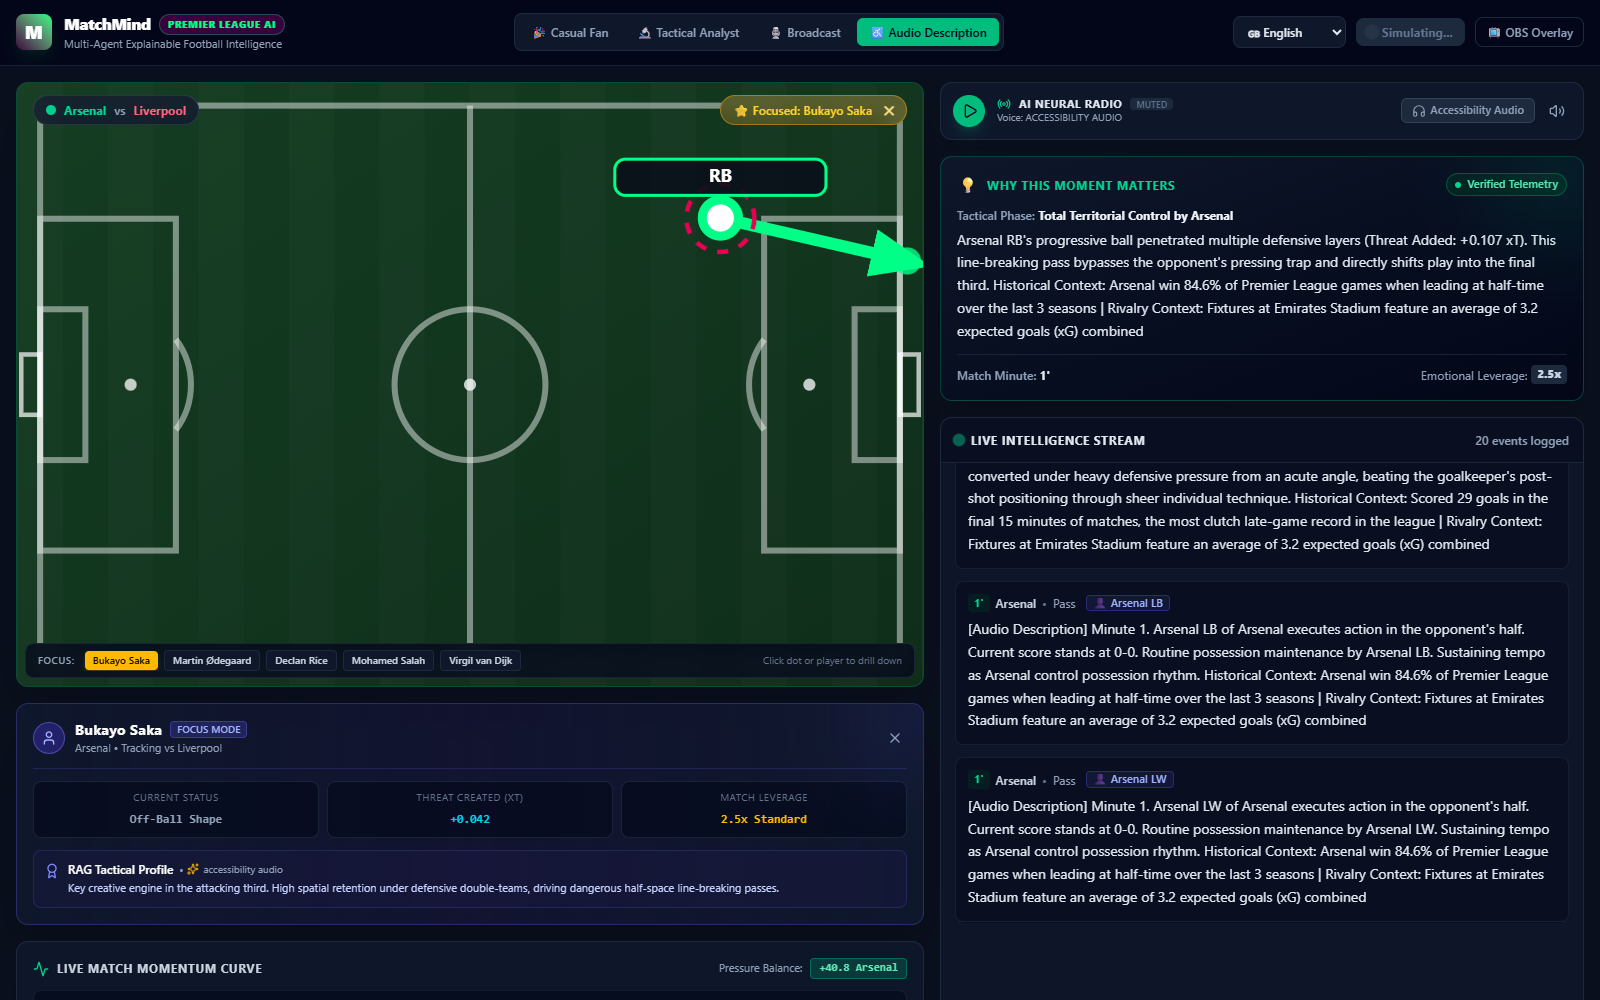
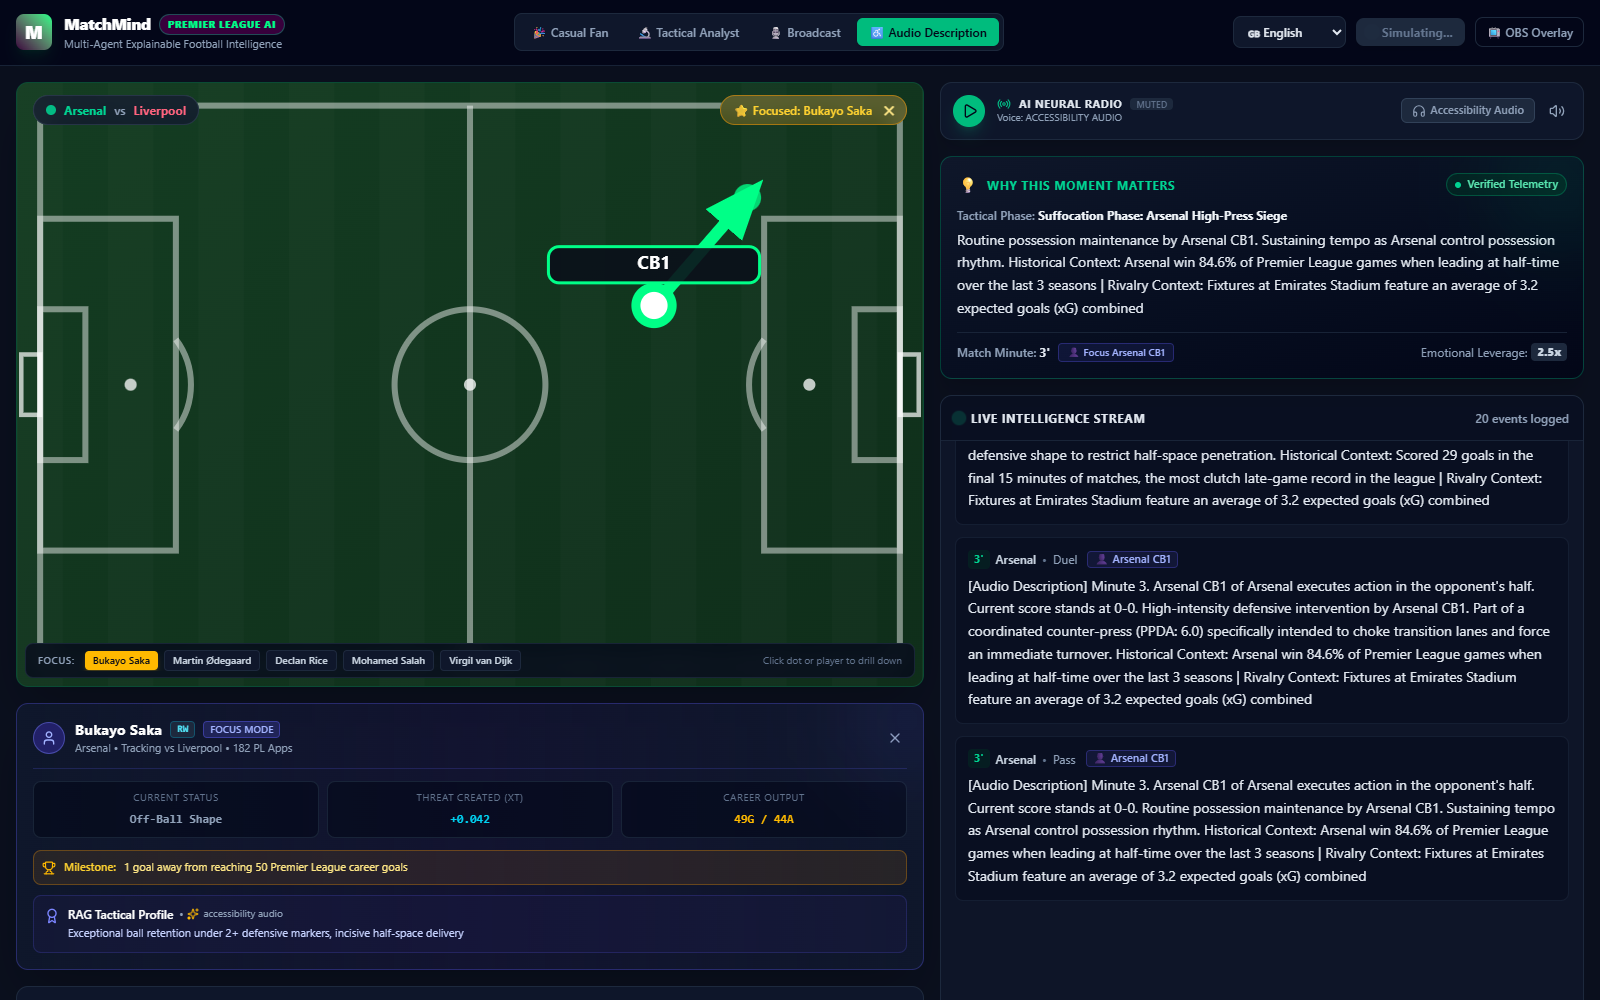
feat(rag-focus-audio): integrate dynamic RAG player lookup, multilingual neural speech, and complete UI sanity check

diff --git a/frontend/src/components/PlayerFocusCard.tsx b/frontend/src/components/PlayerFocusCard.tsx
@@ -1,6 +1,6 @@
-import React from "react";
+import React, { useEffect, useState } from "react";
 import type { MatchEvent, PersonaType } from "../types";
-import { User, Award, X, Sparkles } from "lucide-react";
+import { User, Award, X, Sparkles, Trophy } from "lucide-react";
 
 interface PlayerFocusCardProps {
   focusedPlayerName: string | null;
@@ -11,6 +11,17 @@ interface PlayerFocusCardProps {
   activePersona: PersonaType;
 }
 
+interface HistoricalPlayerProfile {
+  team?: string;
+  position?: string;
+  appearances?: number;
+  goals?: number;
+  assists?: number;
+  xG_per_90?: number;
+  milestones?: string[];
+  signature_traits?: string;
+}
+
 export const PlayerFocusCard: React.FC<PlayerFocusCardProps> = ({
   focusedPlayerName,
   currentEvent,
@@ -19,15 +30,43 @@ export const PlayerFocusCard: React.FC<PlayerFocusCardProps> = ({
   awayTeamName,
   activePersona,
 }) => {
+  const [profile, setProfile] = useState<HistoricalPlayerProfile | null>(null);
+
+  useEffect(() => {
+    if (!focusedPlayerName) {
+      setProfile(null);
+      return;
+    }
+
+    let isMounted = true;
+    fetch(`http://localhost:8000/api/rag/player/${encodeURIComponent(focusedPlayerName)}`)
+      .then((res) => (res.ok ? res.json() : null))
+      .then((data) => {
+        if (isMounted && data?.profile) {
+          setProfile(data.profile);
+        }
+      })
+      .catch(() => {
+        // Fall back to default
+      });
+
+    return () => {
+      isMounted = false;
+    };
+  }, [focusedPlayerName]);
+
   if (!focusedPlayerName) return null;
 
   const isCurrentAction =
     currentEvent?.player?.name?.toLowerCase() === focusedPlayerName.toLowerCase();
 
   const assignedTeam =
-    currentEvent?.player?.name?.toLowerCase() === focusedPlayerName.toLowerCase()
+    profile?.team ||
+    (currentEvent?.player?.name?.toLowerCase() === focusedPlayerName.toLowerCase()
       ? currentEvent.team.name
-      : homeTeamName;
+      : homeTeamName);
+
+  const opponentTeam = assignedTeam === homeTeamName ? awayTeamName : homeTeamName;
 
   return (
     <div className="bg-gradient-to-r from-slate-900 via-indigo-950/40 to-slate-900 border border-indigo-500/30 rounded-xl p-4 shadow-2xl backdrop-blur-md relative overflow-hidden animate-fadeIn">
@@ -45,12 +84,18 @@ export const PlayerFocusCard: React.FC<PlayerFocusCardProps> = ({
               <h3 className="text-sm font-bold text-white tracking-wide">
                 {focusedPlayerName}
               </h3>
+              {profile?.position && (
+                <span className="text-[10px] bg-slate-800 text-cyan-300 border border-cyan-500/30 px-1.5 py-0.2 rounded font-mono font-bold">
+                  {profile.position}
+                </span>
+              )}
               <span className="text-[10px] bg-indigo-500/20 text-indigo-300 border border-indigo-500/40 px-1.5 py-0.2 rounded font-semibold uppercase">
                 Focus Mode
               </span>
             </div>
             <p className="text-[11px] text-slate-400">
-              {assignedTeam} • Tracking vs {assignedTeam === homeTeamName ? awayTeamName : homeTeamName}
+              {assignedTeam} • Tracking vs {opponentTeam}
+              {profile?.appearances && ` • ${profile.appearances} PL Apps`}
             </p>
           </div>
         </div>
@@ -93,13 +138,22 @@ export const PlayerFocusCard: React.FC<PlayerFocusCardProps> = ({
 
         <div className="bg-slate-950/60 border border-slate-800/80 rounded-lg p-2 text-center">
           <span className="text-[10px] text-slate-500 uppercase tracking-wider block">
-            Match Leverage
+            Career Output
           </span>
           <span className="text-xs font-bold font-mono text-amber-400">
-            2.5x Standard
+            {profile?.goals !== undefined ? `${profile.goals}G / ${profile.assists ?? 0}A` : "2.5x Standard"}
           </span>
         </div>
       </div>
+
+      {/* Milestone Alert if available in RAG */}
+      {profile?.milestones && profile.milestones.length > 0 && (
+        <div className="mb-2.5 bg-amber-500/10 border border-amber-500/30 rounded-lg p-2 flex items-center gap-2 text-[11px] text-amber-200">
+          <Trophy className="w-3.5 h-3.5 text-amber-400 shrink-0" />
+          <span className="font-semibold text-amber-300">Milestone:</span>
+          <span className="truncate">{profile.milestones[0]}</span>
+        </div>
+      )}
 
       {/* Historical Intelligence Nugget from RAG */}
       <div className="bg-indigo-950/30 border border-indigo-500/20 rounded-lg p-2.5 flex items-start gap-2 text-xs text-indigo-200">
@@ -112,7 +166,8 @@ export const PlayerFocusCard: React.FC<PlayerFocusCardProps> = ({
             </span>
           </div>
           <p className="text-[11px] leading-relaxed">
-            Key creative engine in the attacking third. High spatial retention under defensive double-teams, driving dangerous half-space line-breaking passes.
+            {profile?.signature_traits ||
+              "Key creative engine in the attacking third. High spatial retention under defensive double-teams, driving dangerous half-space line-breaking passes."}
           </p>
         </div>
       </div>

diff --git a/frontend/src/components/AudioCommentaryBar.tsx b/frontend/src/components/AudioCommentaryBar.tsx
@@ -1,52 +1,98 @@
 import React, { useState, useEffect, useRef } from "react";
-import type { NarrativeOutput, PersonaType } from "../types";
+import type { LanguageCode, NarrativeOutput, PersonaType } from "../types";
 import { Volume2, VolumeX, Play, Pause, Radio, Headphones } from "lucide-react";
 
 interface AudioCommentaryBarProps {
   latestNarrative: NarrativeOutput | null;
   activePersona: PersonaType;
+  activeLanguage?: LanguageCode;
 }
 
 export const AudioCommentaryBar: React.FC<AudioCommentaryBarProps> = ({
   latestNarrative,
   activePersona,
+  activeLanguage = "en",
 }) => {
   const [isPlaying, setIsPlaying] = useState(false);
   const [isMuted, setIsMuted] = useState(false);
   const [useAccessibilityAudio, setUseAccessibilityAudio] = useState(false);
+  const [availableVoices, setAvailableVoices] = useState<SpeechSynthesisVoice[]>([]);
   const lastSpokenIdRef = useRef<string | null>(null);
+
+  // Load voices reliably across Chromium and WebKit
+  useEffect(() => {
+    if (typeof window === "undefined" || !window.speechSynthesis) return;
+
+    const updateVoices = () => {
+      const voices = window.speechSynthesis.getVoices();
+      if (voices.length > 0) {
+        setAvailableVoices(voices);
+      }
+    };
+
+    updateVoices();
+    window.speechSynthesis.onvoiceschanged = updateVoices;
+
+    return () => {
+      if (window.speechSynthesis) {
+        window.speechSynthesis.onvoiceschanged = null;
+      }
+    };
+  }, []);
 
   // Read aloud commentary when new verified message arrives
   useEffect(() => {
     if (!isPlaying || isMuted || !latestNarrative || !window.speechSynthesis) return;
 
-    if (latestNarrative.narrative_id === lastSpokenIdRef.current) return;
-    lastSpokenIdRef.current = latestNarrative.narrative_id;
+    const speechKey = `${latestNarrative.narrative_id}-${activePersona}-${activeLanguage}-${useAccessibilityAudio}`;
+    if (speechKey === lastSpokenIdRef.current) return;
+    lastSpokenIdRef.current = speechKey;
 
-    // Pick commentary text
-    const textToSpeak = useAccessibilityAudio
-      ? latestNarrative.commentary_by_persona?.accessibility_audio ||
-        latestNarrative.why_it_matters_explanation
-      : latestNarrative.commentary_by_persona?.[activePersona] ||
+    // Pick commentary text (multilingual if selected)
+    let textToSpeak = "";
+    if (activeLanguage !== "en" && latestNarrative.translations?.[activeLanguage]) {
+      textToSpeak = latestNarrative.translations[activeLanguage];
+    } else if (useAccessibilityAudio) {
+      textToSpeak =
+        latestNarrative.commentary_by_persona?.accessibility_audio ||
         latestNarrative.why_it_matters_explanation;
+    } else {
+      textToSpeak =
+        latestNarrative.commentary_by_persona?.[activePersona] ||
+        latestNarrative.why_it_matters_explanation;
+    }
 
     if (!textToSpeak) return;
 
     // Cancel current speech and speak new line
     window.speechSynthesis.cancel();
     const utterance = new SpeechSynthesisUtterance(textToSpeak);
-    utterance.rate = 1.05;
-    utterance.pitch = useAccessibilityAudio ? 0.95 : 1.0;
 
-    // Choose English voice
-    const voices = window.speechSynthesis.getVoices();
-    const englishVoice = voices.find((v) => v.lang.startsWith("en"));
-    if (englishVoice) {
-      utterance.voice = englishVoice;
+    // Dynamic pitch/rate based on emotional leverage
+    const isHighDrama = (latestNarrative.leverage_index ?? 1.0) >= 3.0;
+    utterance.rate = isHighDrama ? 1.15 : useAccessibilityAudio ? 1.0 : 1.05;
+    utterance.pitch = isHighDrama ? 1.08 : useAccessibilityAudio ? 0.95 : 1.0;
+
+    // Match appropriate voice for language
+    const voices = availableVoices.length > 0 ? availableVoices : window.speechSynthesis.getVoices();
+    const matchedVoice =
+      voices.find((v) => v.lang.toLowerCase().startsWith(activeLanguage.toLowerCase())) ||
+      voices.find((v) => v.lang.startsWith("en"));
+
+    if (matchedVoice) {
+      utterance.voice = matchedVoice;
     }
 
     window.speechSynthesis.speak(utterance);
-  }, [latestNarrative, isPlaying, isMuted, activePersona, useAccessibilityAudio]);
+  }, [
+    latestNarrative,
+    isPlaying,
+    isMuted,
+    activePersona,
+    activeLanguage,
+    useAccessibilityAudio,
+    availableVoices,
+  ]);
 
   const togglePlay = () => {
     if (isPlaying) {
@@ -55,7 +101,7 @@ export const AudioCommentaryBar: React.FC<AudioCommentaryBarProps> = ({
     } else {
       setIsPlaying(true);
       if (latestNarrative) {
-        lastSpokenIdRef.current = null; // force speech on next trigger
+        lastSpokenIdRef.current = null; // force speech on play
       }
     }
   };

diff --git a/frontend/src/components/ExplainabilityCard.tsx b/frontend/src/components/ExplainabilityCard.tsx
@@ -2,9 +2,15 @@ import type { NarrativeOutput } from "../types";
 
 interface ExplainabilityProps {
   narrative: NarrativeOutput | null;
+  onSelectPlayer?: (playerName: string) => void;
+  currentEventPlayerName?: string;
 }
 
-export const ExplainabilityCard: React.FC<ExplainabilityProps> = ({ narrative }) => {
+export const ExplainabilityCard: React.FC<ExplainabilityProps> = ({
+  narrative,
+  onSelectPlayer,
+  currentEventPlayerName,
+}) => {
   if (!narrative) {
     return (
       <div className="bg-slate-900/60 border border-slate-800/80 rounded-xl p-4 text-center text-sm text-slate-500 italic">
@@ -46,10 +52,21 @@ export const ExplainabilityCard: React.FC<ExplainabilityProps> = ({ narrative })
       </p>
 
       {/* Leverage & Timing Footer */}
-      <div className="mt-3 pt-2.5 border-t border-slate-800/80 flex items-center justify-between text-xs text-slate-400">
-        <span className="font-medium">
-          Match Minute: <b className="text-slate-200">{narrative.minute}'</b>
-        </span>
+      <div className="mt-3 pt-2.5 border-t border-slate-800/80 flex items-center justify-between text-xs text-slate-400 flex-wrap gap-2">
+        <div className="flex items-center gap-2">
+          <span className="font-medium">
+            Match Minute: <b className="text-slate-200">{narrative.minute}'</b>
+          </span>
+          {currentEventPlayerName && onSelectPlayer && (
+            <button
+              onClick={() => onSelectPlayer(currentEventPlayerName)}
+              className="text-[10px] bg-indigo-500/10 hover:bg-indigo-500/30 text-indigo-300 border border-indigo-500/30 px-2 py-0.5 rounded font-semibold transition-colors"
+              title={`Focus analysis on ${currentEventPlayerName}`}
+            >
+              👤 Focus {currentEventPlayerName}
+            </button>
+          )}
+        </div>
         <div className="flex items-center gap-1">
           <span>Emotional Leverage:</span>
           <span

diff --git a/frontend/src/App.tsx b/frontend/src/App.tsx
@@ -147,8 +147,13 @@ export const App: React.FC = () => {
           <AudioCommentaryBar
             latestNarrative={latestNarrative}
             activePersona={activePersona}
+            activeLanguage={activeLanguage}
           />
-          <ExplainabilityCard narrative={latestNarrative} />
+          <ExplainabilityCard
+            narrative={latestNarrative}
+            onSelectPlayer={setFocusedPlayer}
+            currentEventPlayerName={currentEvent?.player?.name}
+          />
           <div className="flex-1 min-h-[360px]">
             <LiveFeed
               messages={feedMessages}

diff --git a/matchmind/delivery/rest_api.py b/matchmind/delivery/rest_api.py
@@ -108,6 +108,30 @@ async def get_match_state(match_id: str):
     return state.model_dump()
 
 
+@app.get("/api/rag/player/{player_name}")
+async def get_player_profile(player_name: str):
+    """Retrieves deep historical profile and career milestones for a player."""
+    context_agent = orchestrator.agents.get("context_agent")
+    if not context_agent or not hasattr(context_agent, "rag_engine"):
+        return JSONResponse(status_code=503, content={"error": "ContextAgent not ready"})
+    profile = context_agent.rag_engine.find_player(player_name)
+    if not profile:
+        return JSONResponse(status_code=404, content={"error": f"Player '{player_name}' not found in historical database"})
+    return {"player_name": player_name, "profile": profile}
+
+
+@app.get("/api/rag/rivalry/{home_team}/{away_team}")
+async def get_rivalry_profile(home_team: str, away_team: str):
+    """Retrieves head-to-head historical rivalry stats and narratives."""
+    context_agent = orchestrator.agents.get("context_agent")
+    if not context_agent or not hasattr(context_agent, "rag_engine"):
+        return JSONResponse(status_code=503, content={"error": "ContextAgent not ready"})
+    rivalry = context_agent.rag_engine.find_rivalry(home_team, away_team)
+    if not rivalry:
+        return JSONResponse(status_code=404, content={"error": f"No rivalry record found for {home_team} vs {away_team}"})
+    return {"home_team": home_team, "away_team": away_team, "rivalry": rivalry}
+
+
 @app.post("/api/match/{match_id}/simulate")
 async def start_simulation(
     match_id: str,

diff --git a/tests/test_integration/test_full_pipeline.py b/tests/test_integration/test_full_pipeline.py
@@ -122,12 +122,19 @@ async def test_rest_api_endpoints():
             res_sim = await client.post("/api/match/sim_test/simulate?source=synthetic&events_count=5&delay_seconds=0.05")
             assert res_sim.status_code == 200
             await asyncio.sleep(0.6)
-            res_state = await client.get("/api/match/sim_test/state")
-            assert res_state.status_code == 200
-            state_data = res_state.json()
-            assert state_data["match_id"] == "sim_test"
-            assert "score" in state_data
-            assert "cumulative_xg" in state_data
-            assert "field_tilt" in state_data
+            # 5. Player RAG lookup endpoint
+            res_player = await client.get("/api/rag/player/Bukayo%20Saka")
+            assert res_player.status_code == 200
+            player_data = res_player.json()
+            assert player_data["player_name"] == "Bukayo Saka"
+            assert "profile" in player_data
+            assert player_data["profile"]["team"] == "Arsenal"
+
+            # 6. Rivalry RAG lookup endpoint
+            res_rivalry = await client.get("/api/rag/rivalry/Arsenal/Liverpool")
+            assert res_rivalry.status_code == 200
+            rivalry_data = res_rivalry.json()
+            assert "rivalry" in rivalry_data
+
 
 

diff --git a/scripts/live_user_test.py b/scripts/live_user_test.py
@@ -62,7 +62,7 @@ def run_live_test():
             ("Header", "header"),
             ("Pitch Visualization", "svg"),
             ("Metrics Panel", "text=EXPECTED GOALS"),
-            ("Explainability Card", "text=Awaiting live tactical, text=WHY THIS MOMENT MATTERS"),
+            ("Explainability Card", ":text('Awaiting live tactical'), :text('WHY THIS MOMENT MATTERS')"),
             ("Live Feed", "text=Live Intelligence Stream"),
             ("Agent Status Bar", "text=MULTI-AGENT MESH"),
             ("Momentum Graph", "text=LIVE MATCH MOMENTUM CURVE"),
